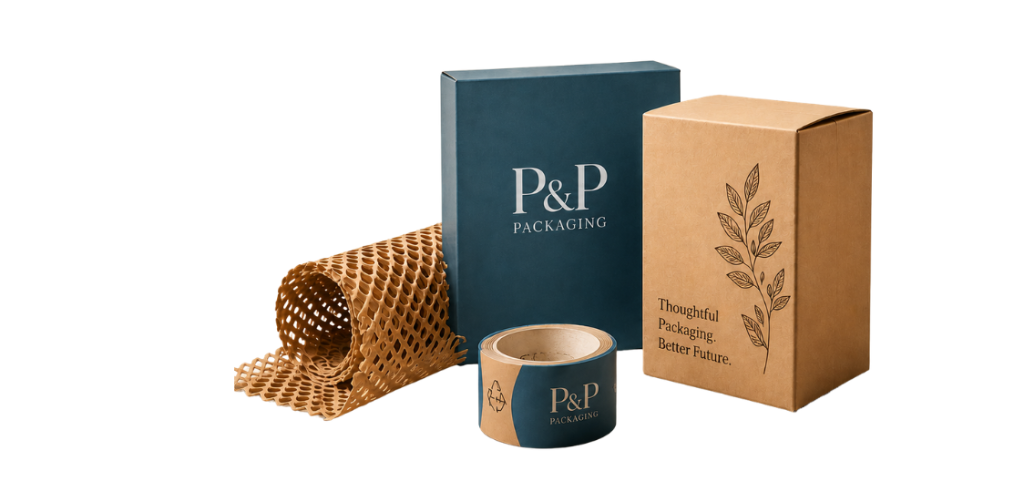
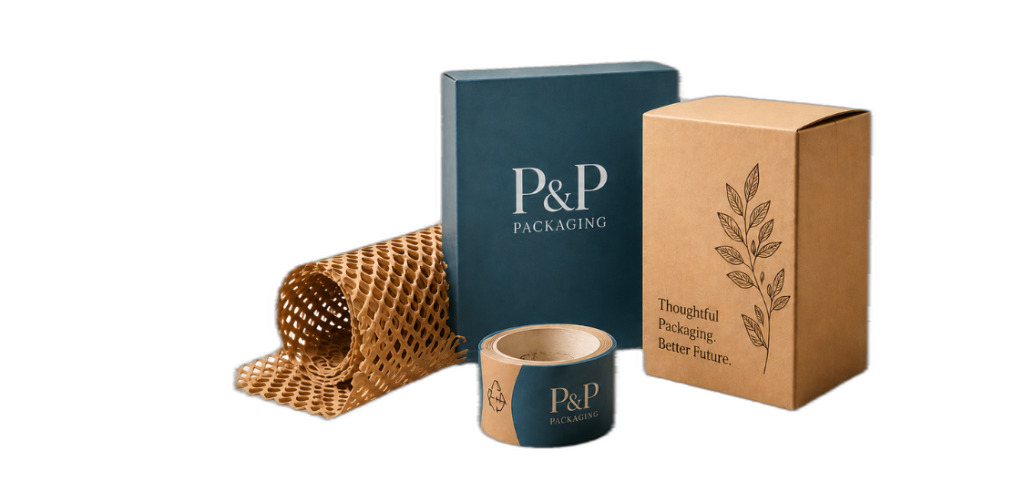
Fix transparent backgrounds on homepage images

diff --git a/src/components/home/HeroSection.tsx b/src/components/home/HeroSection.tsx
@@ -40,13 +40,13 @@ export function HeroSection() {
 
           {/* Right Column (Image) */}
           <div className="w-full lg:w-[55%] relative">
-            {/* The Image Card */}
-            <div className="relative aspect-[4/3] w-full rounded-card overflow-hidden shadow-card">
+            {/* The Image Container */}
+            <div className="relative aspect-[4/3] w-full">
               <Image 
                 src="/images/home-hero.png" 
                 alt="Custom kraft and cardboard packaging boxes"
                 fill
-                className="object-cover"
+                className="object-contain"
                 priority
               />
               

diff --git a/remove_bg.py b/remove_bg.py
@@ -1,0 +1,25 @@
+import os
+from rembg import remove, new_session
+from PIL import Image
+
+def process_image(filepath):
+    try:
+        print(f"Processing {filepath}...")
+        # Load the silueta model which is only 43MB
+        session = new_session("silueta")
+        
+        with open(filepath, 'rb') as i:
+            with open(filepath + ".temp.png", 'wb') as o:
+                input_data = i.read()
+                output_data = remove(input_data, session=session)
+                o.write(output_data)
+        
+        # Replace the original with the transparent one
+        os.replace(filepath + ".temp.png", filepath)
+        print(f"Success: {filepath}")
+    except Exception as e:
+        print(f"Error processing {filepath}: {e}")
+
+if __name__ == "__main__":
+    process_image("public/images/home-hero.png")
+    process_image("public/images/home-cta.png")
